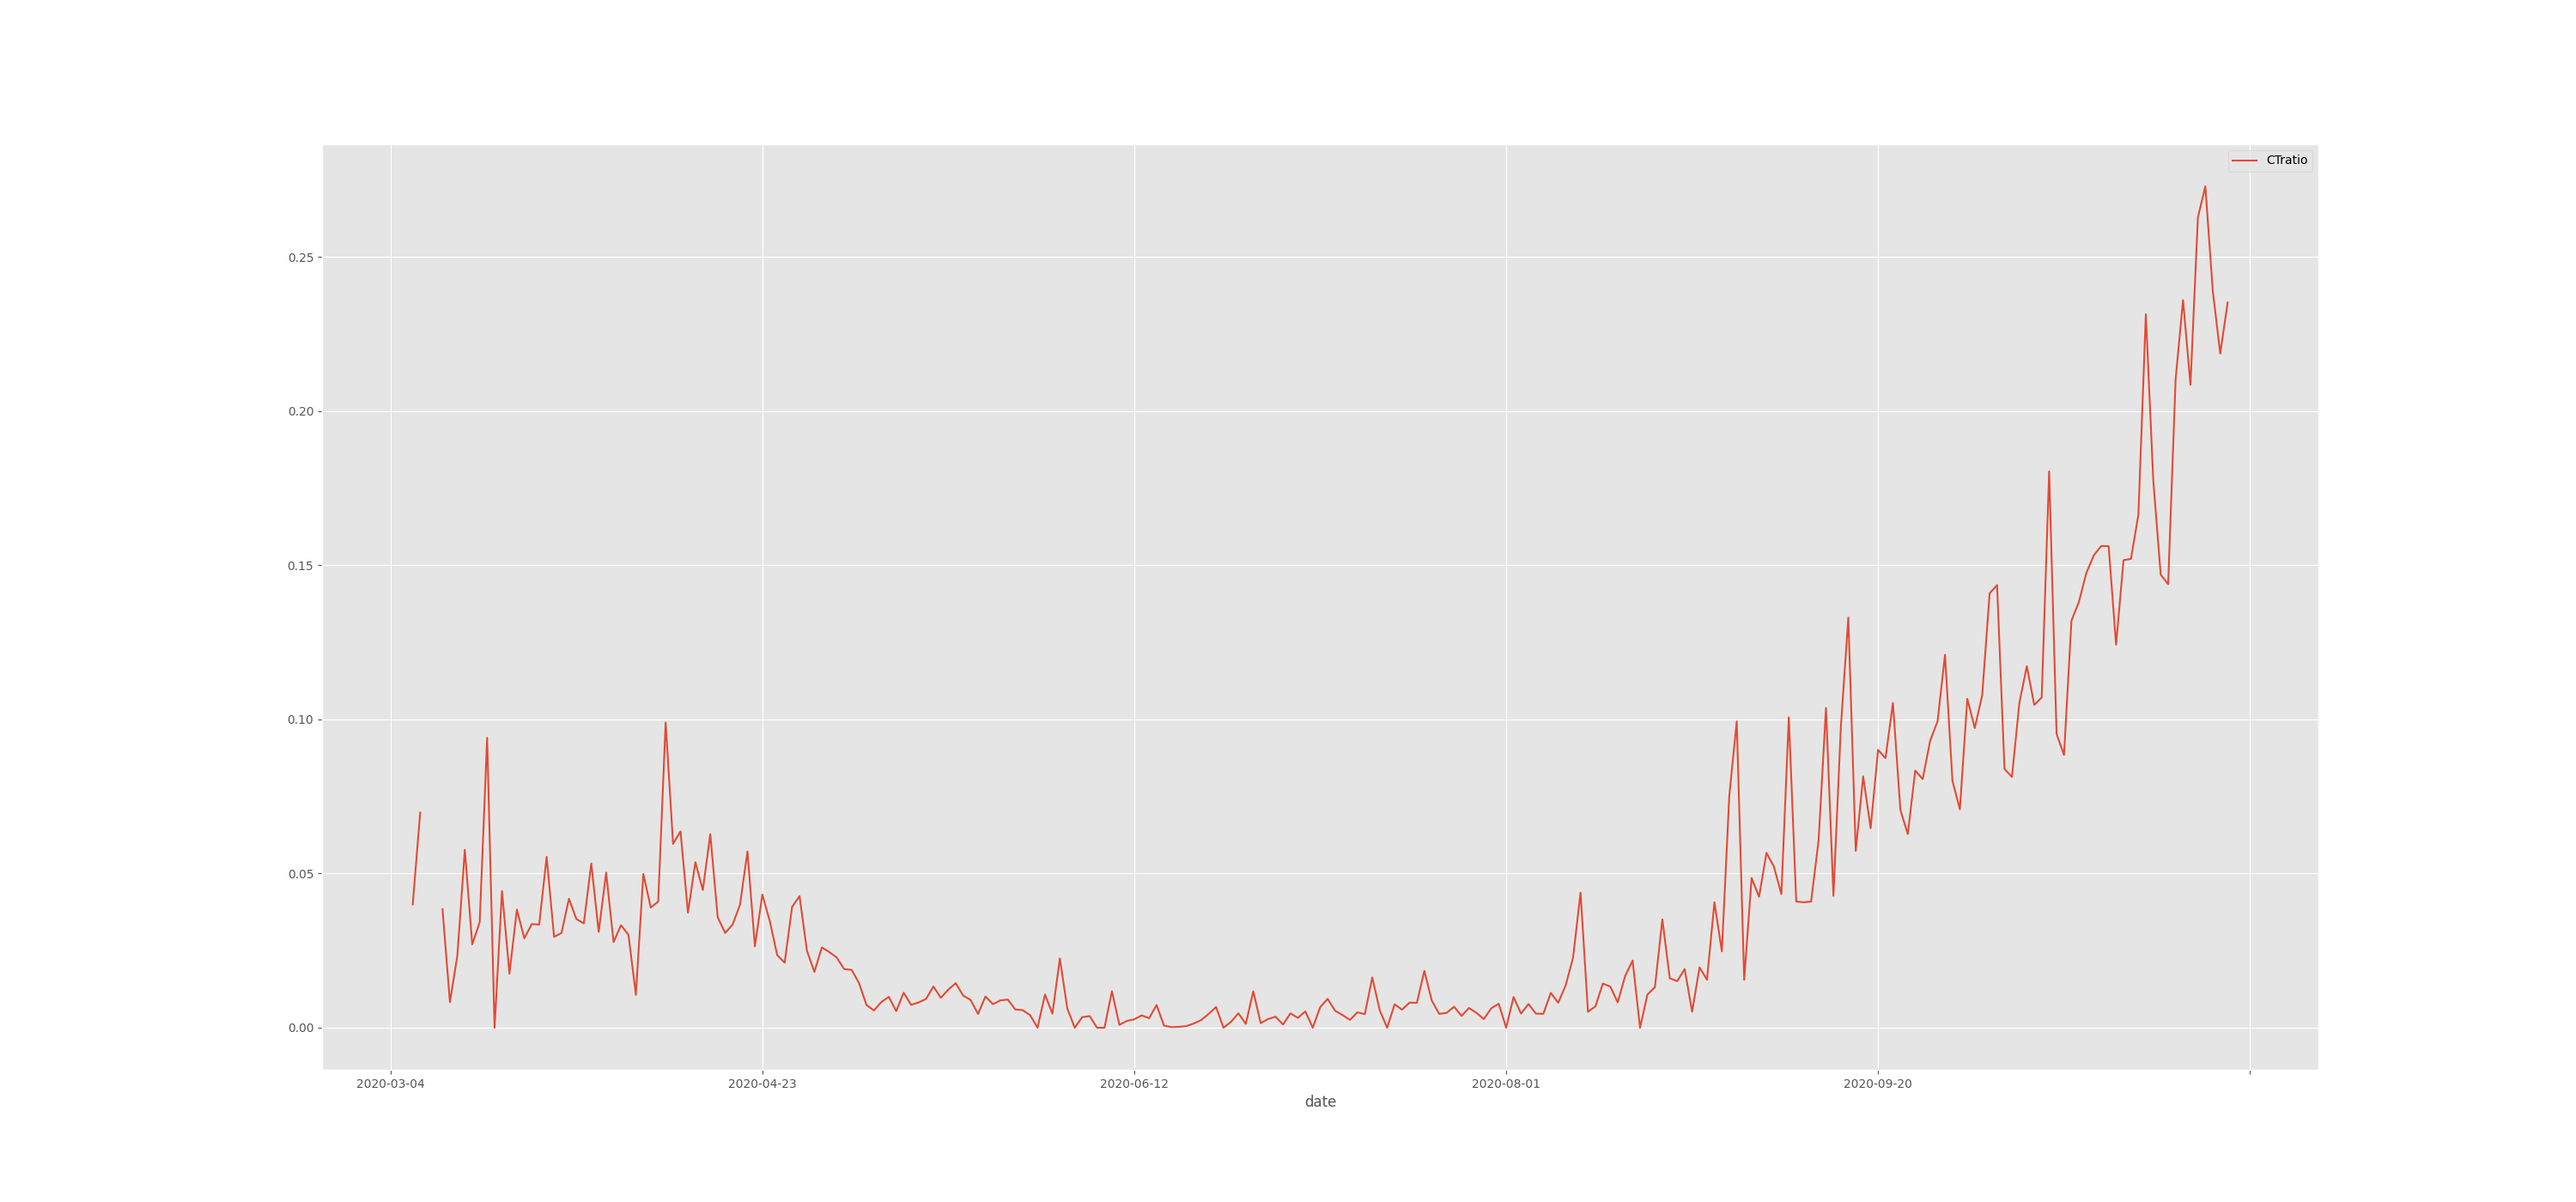
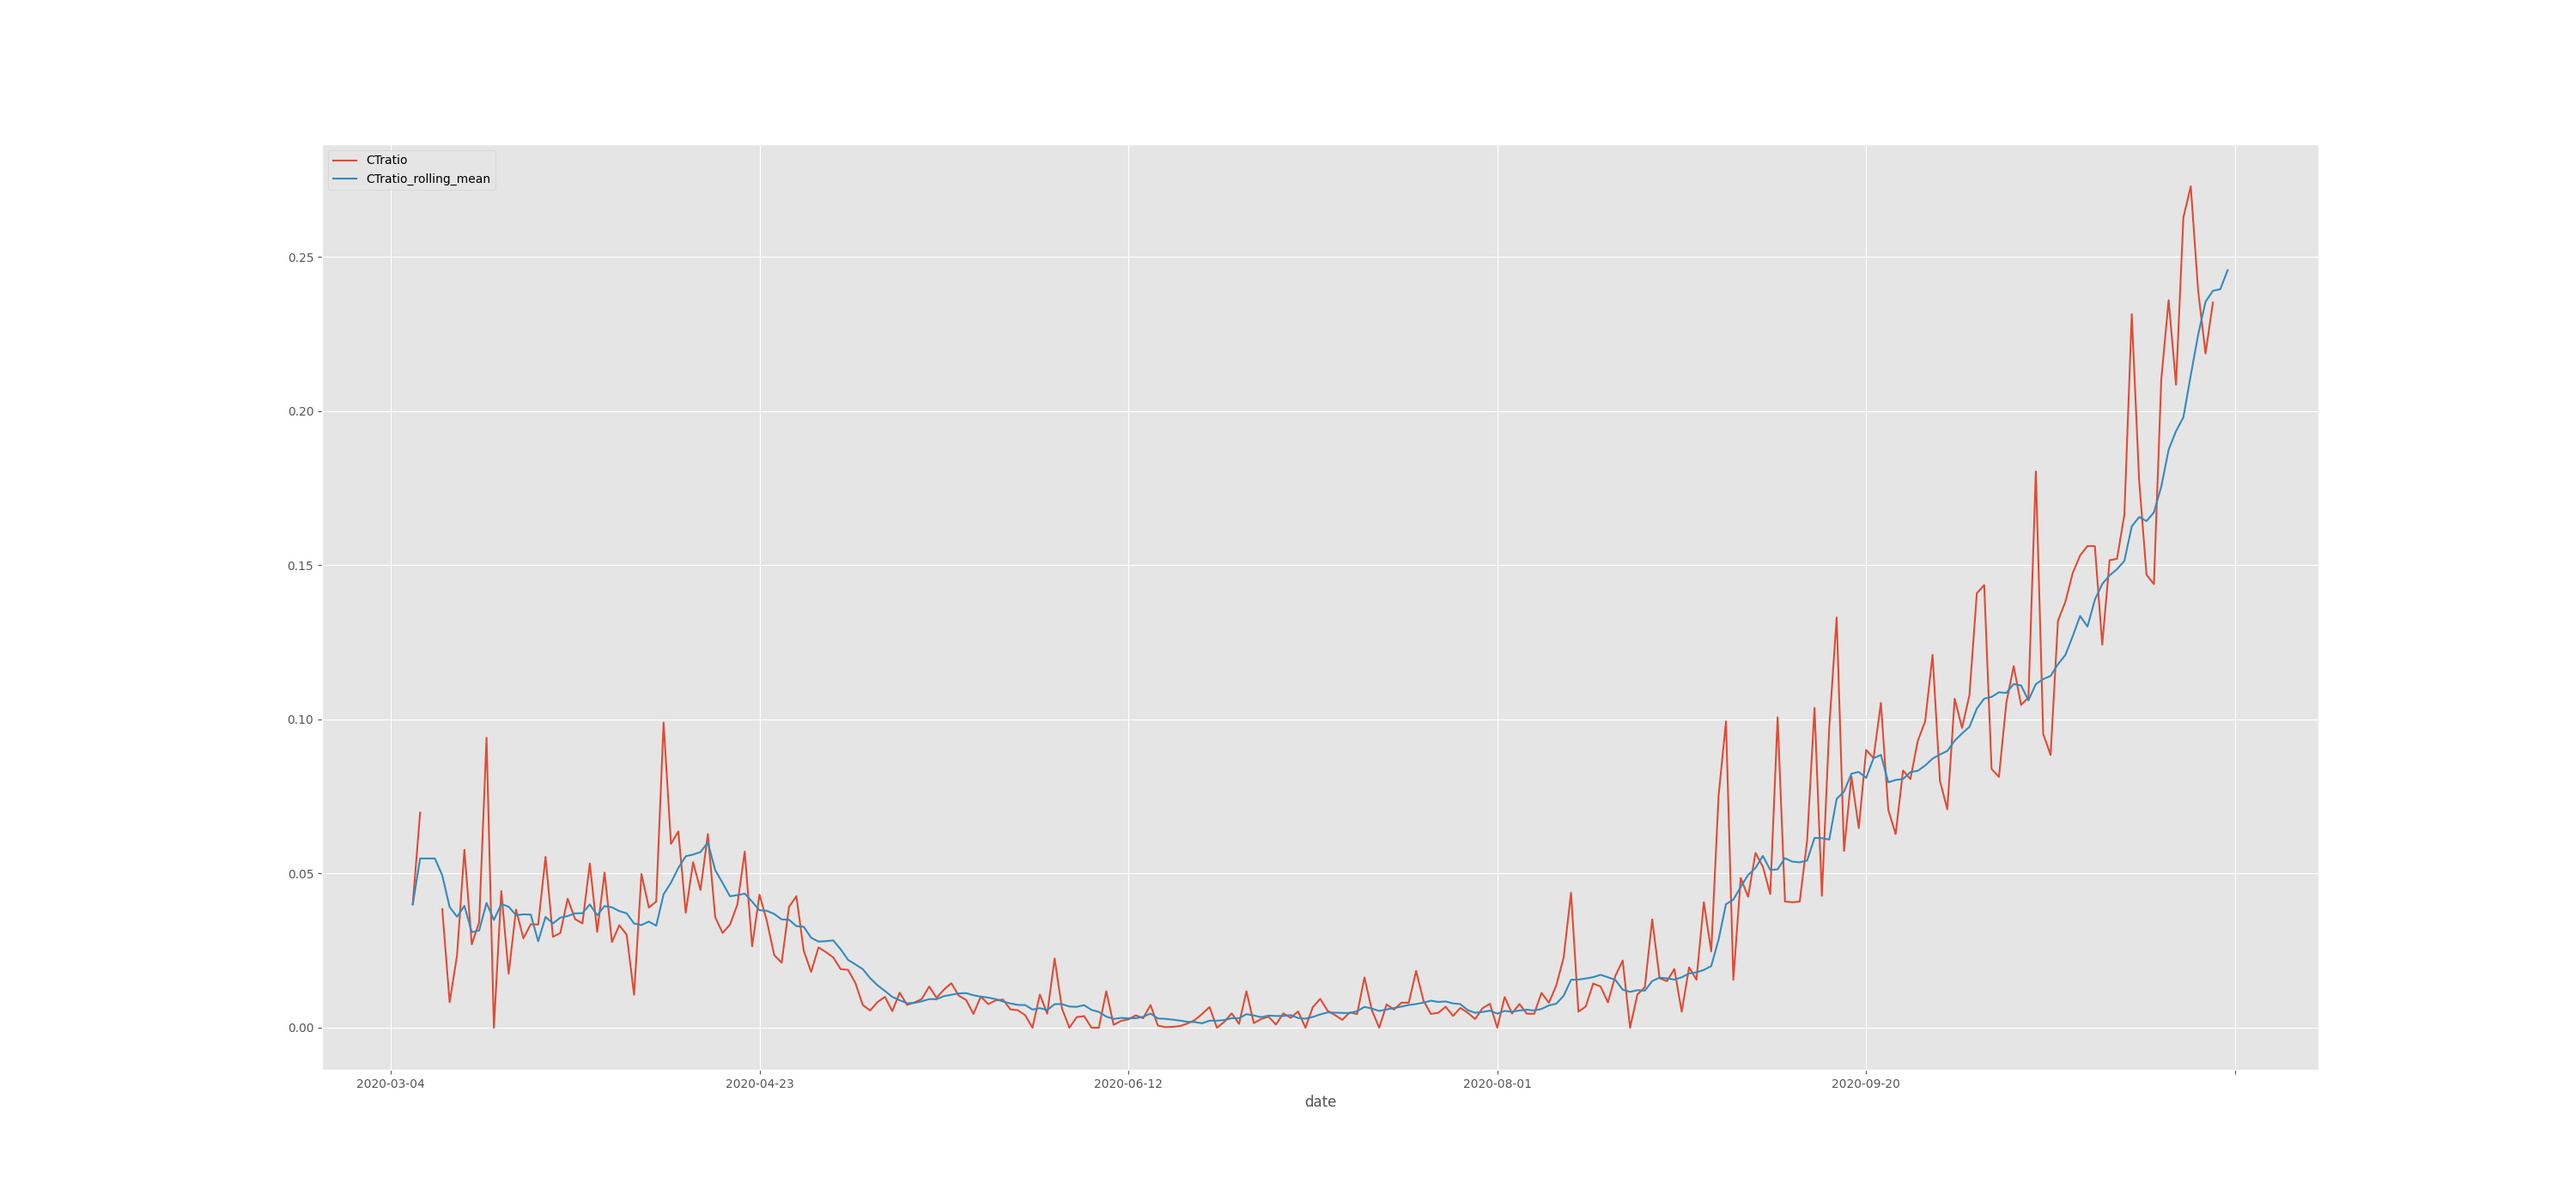
test

diff --git a/charting.py b/charting.py
@@ -8,6 +8,17 @@ pandas_df = pd.read_csv('outspark.csv')
 pandas_df = pandas_df[['date','CTratio']]
 pandas_df.set_index('date',inplace=True)
 
+rollingavg = pandas_df.rolling(7, min_periods=1).mean()
+rollingavg.columns = ['CTratio_rolling_mean']
+print(rollingavg)
+
+#pandas_df2 = pandas_df[['date','CTratio']]
+pandas_df2 = pandas_df
+pandas_df2 = pandas_df2.merge(rollingavg,right_index=True, left_index=True)
+#pandas_df2 = pandas_df2[['date','CTratio','CTratio_rolling_mean']]
+print(pandas_df2)
+
+
 #disable dislplay
 plt.switch_backend('agg')
 #set ggplot style
@@ -16,7 +27,7 @@ plt.style.use('ggplot')
 
 #plot data
 fig, ax = plt.subplots(figsize=(30,14))
-pandas_df.plot(ax=ax)
+pandas_df2.plot(ax=ax)
 plt.savefig('ctratio.png', dpi=100)
 ######################################################
 
